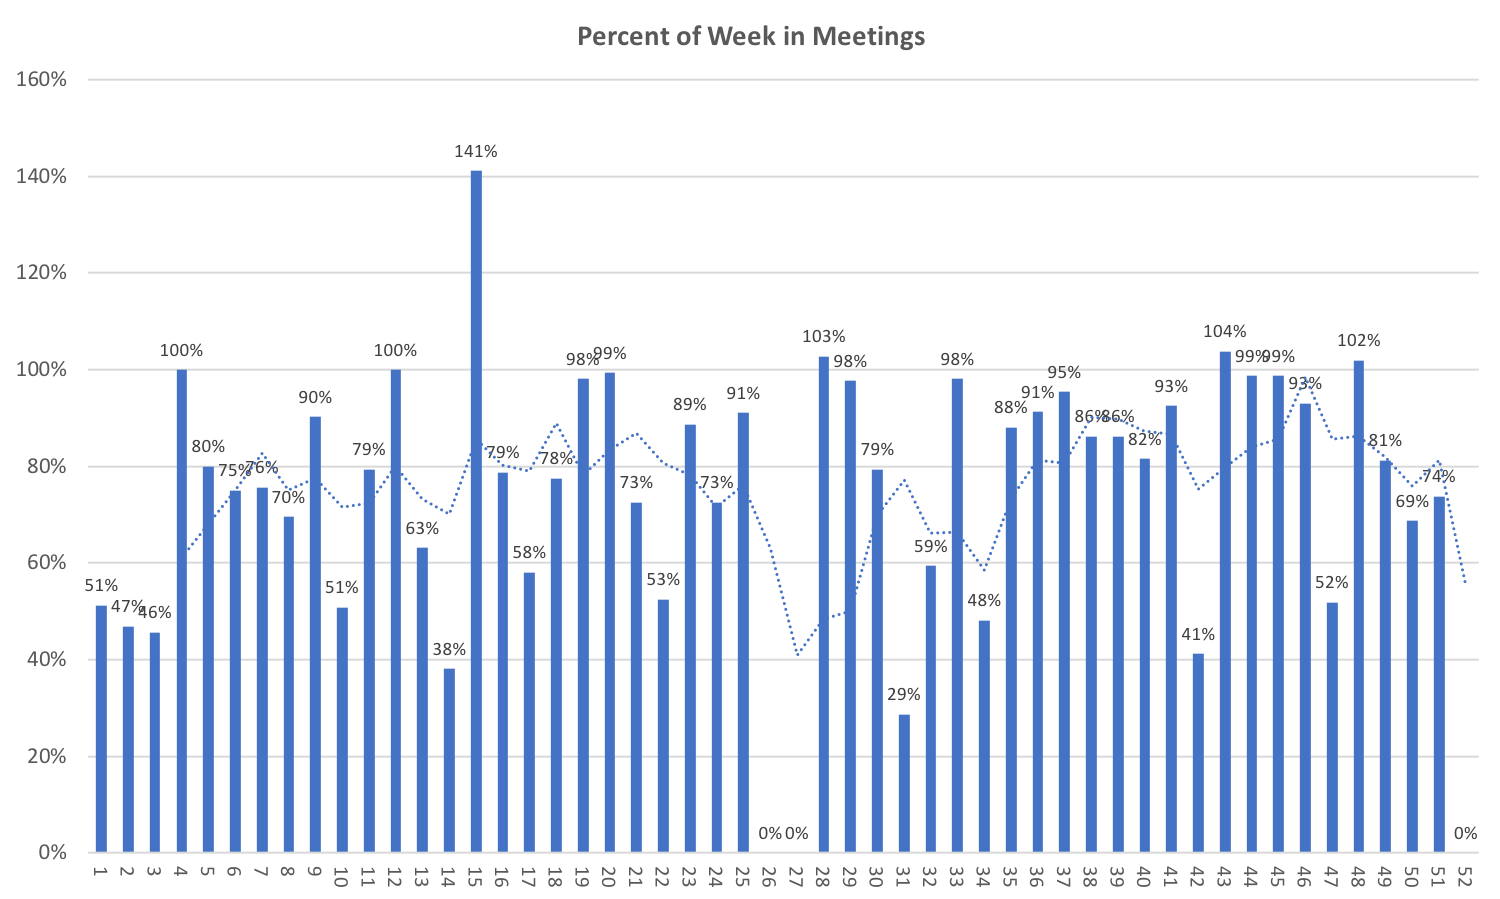
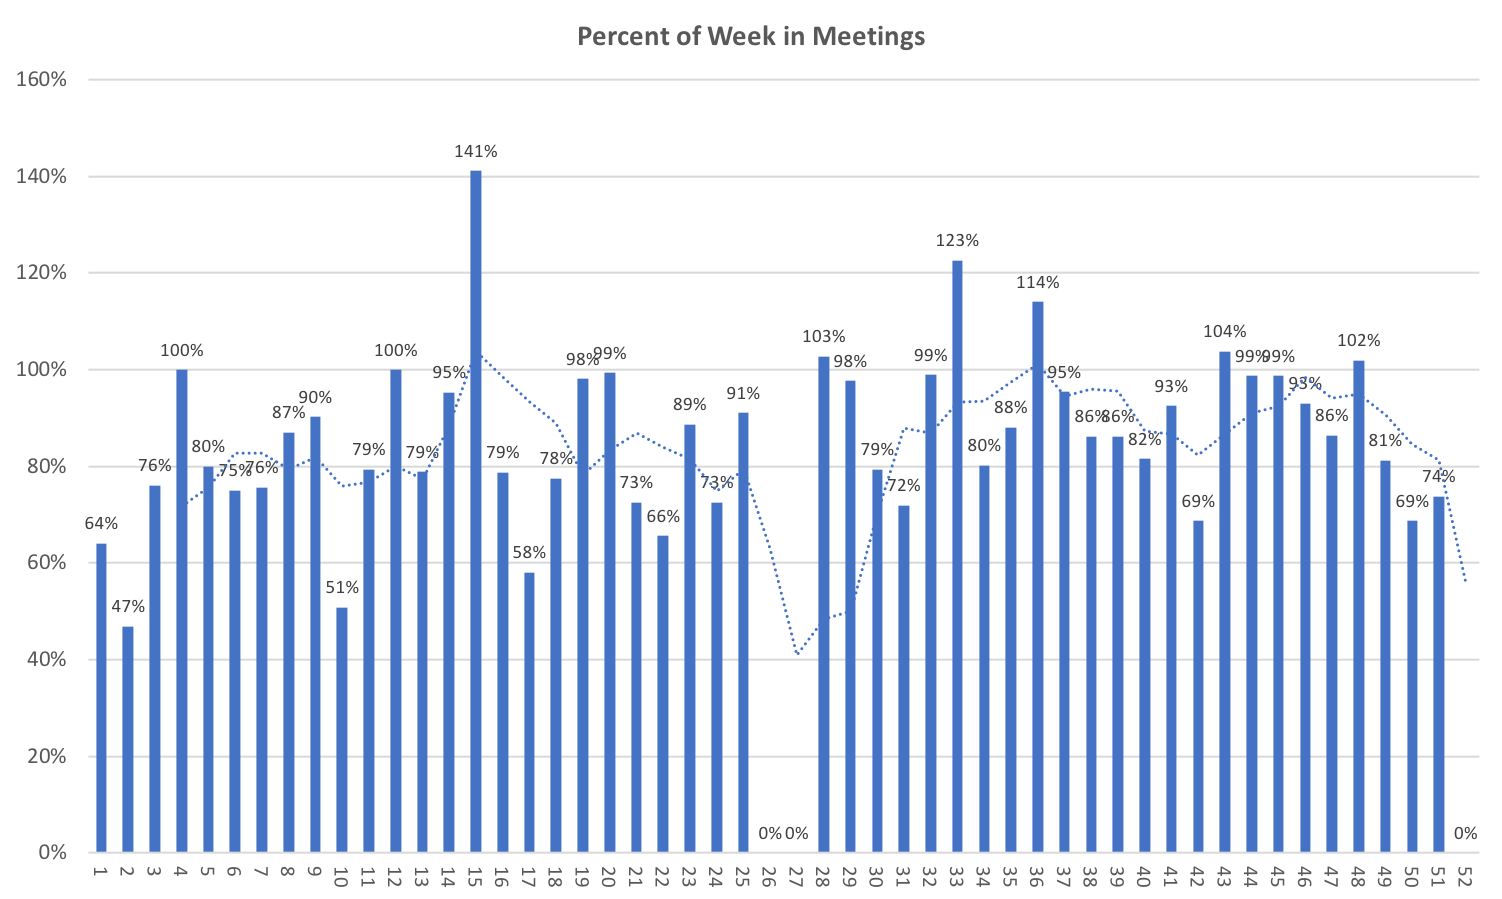
Fixed graph and text.
Graph used a flat 40 hour week before. Adjusted the calculation to deal
with weeks where I took a single day off and reflect the available time
appropriately.

diff --git a/_posts/2018/2018-01-21-2017-in-meetings.md b/_posts/2018/2018-01-21-2017-in-meetings.md
@@ -29,7 +29,7 @@ Daily data is noisy, and it’s easier to look at the 52 weeks of the year versu
 
 ![2017 Meetings by Week of Year]({{ site.url }}{% link /assets/posts/2018/meetings-2017/woy.png %})
 
-I got curious about how much of the week is scheduled in meetings. If we use a 40-hour week as a baseline then consider the load to be the percent of those 40 hours that were scheduled what would that look like? It isn't uncommon for me to have all of my time scheduled, and occasionally be over scheduled. As mentioned earlier, I do block time on my schedule for solo work activities. As a result, *81.3% is fully scheduled*. Whenever I am over 81.3% I've removed that block to allow for more meeting time.
+I got curious about how much of the week is scheduled in meetings. If we use an 8-hour day as a baseline then consider the load to be the percent of those 8 hours that were scheduled what would my weeks look like? It isn't uncommon for me to have all of my time scheduled, and occasionally be over scheduled. As mentioned earlier, I do block time on my schedule for solo work activities. As a result, *81.3% is fully scheduled*. Whenever I am over 81.3% I've removed that block to allow for more meeting time.
 
 ![2017 Meetings Load by Week]({{ site.url }}{% link /assets/posts/2018/meetings-2017/load.png %})
 
